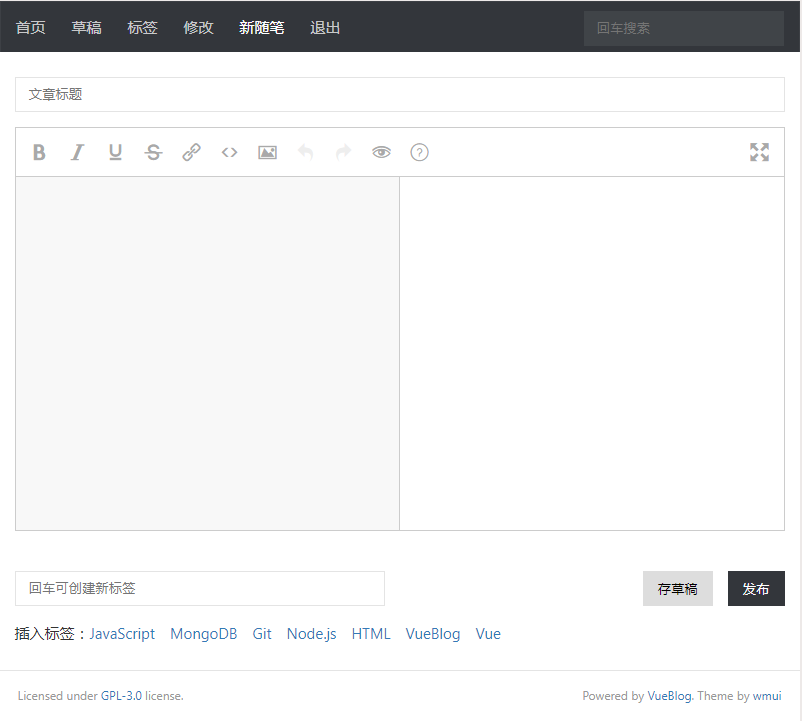
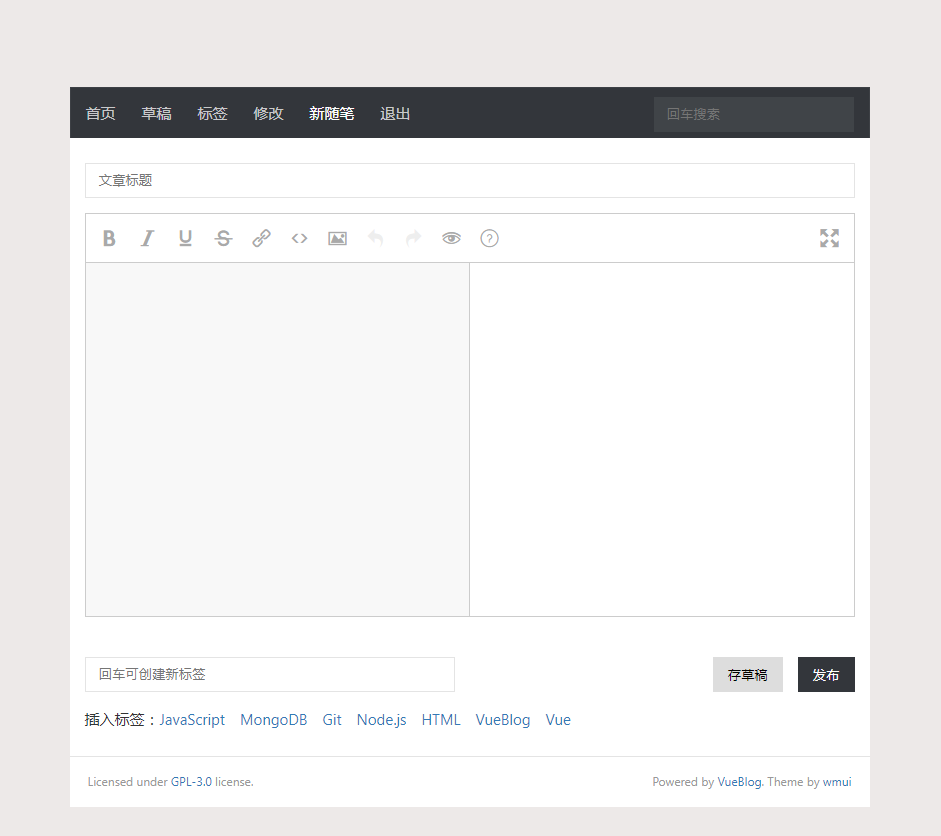
v2.2.0

diff --git a/ecosystem.config.js b/ecosystem.config.js
@@ -1,0 +1,24 @@
+module.exports = {
+  apps: [
+    {
+      name: 'vueblog',
+      script: 'build/main.js',
+      env: {
+        COMMON_VARIABLE: 'true'
+      },
+      env_production: {
+        NODE_ENV: 'production'
+      }
+    }
+  ],
+  deploy: {
+    production: {
+      user: 'root',
+      host: '198.13.32.165',
+      ref: 'origin/master',
+      repo: 'git@github.com:wmui/vueblog.git',
+      path: '/www/vueblog',
+      'post-deploy': 'yarn && npm run build && pm2 reload ecosystem.config.js --env production'
+    }
+  }
+}

diff --git a/README.md b/README.md
@@ -7,11 +7,19 @@ VueBlog是一个轻量的用于记录笔记的博客应用 [演示站](http://vu
 
 ### 前台演示图
 
-![](https://github.com/wmui/vueblog/raw/master/demo/v2/index.png)  
+<p align="center">
+  <a href="https://vue-hn.now.sh" target="_blank">
+    <img src="https://github.com/wmui/vueblog/raw/master/demo/v2/index.png">
+  </a>
+</p>
 
 ### 后台演示图
 
-![](https://github.com/wmui/vueblog/raw/master/demo/v2/admin.png)  
+<p align="center">
+  <a href="https://vue-hn.now.sh" target="_blank">
+    <img src="https://github.com/wmui/vueblog/raw/master/demo/v2/admin.png">
+  </a>
+</p>
 
 ### 技术栈
 
